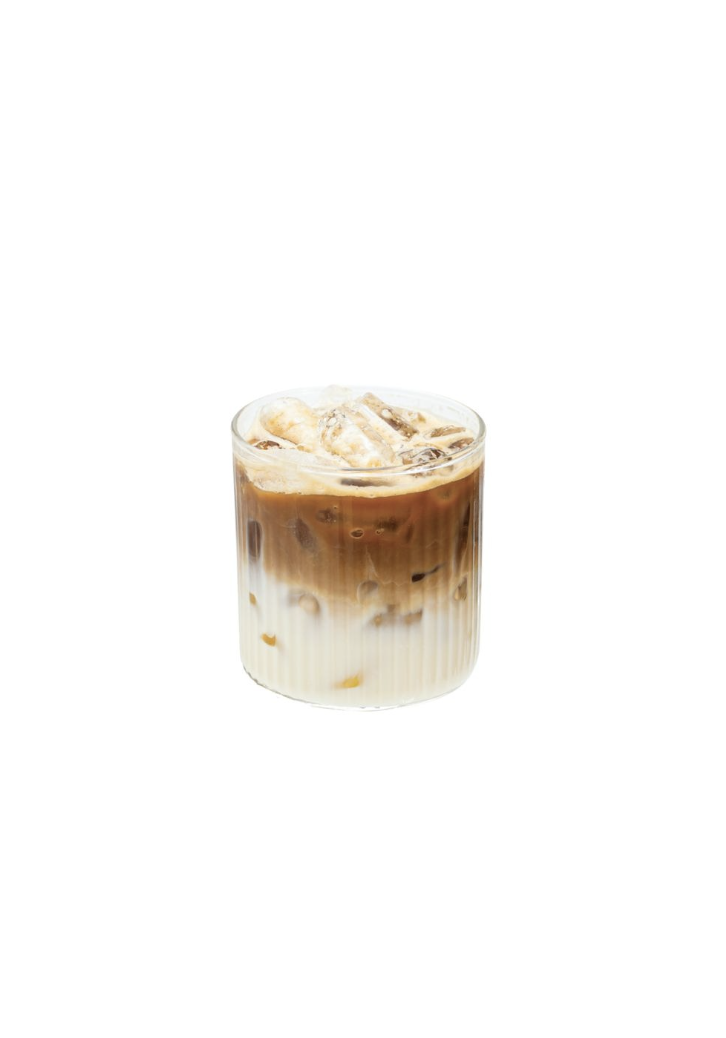
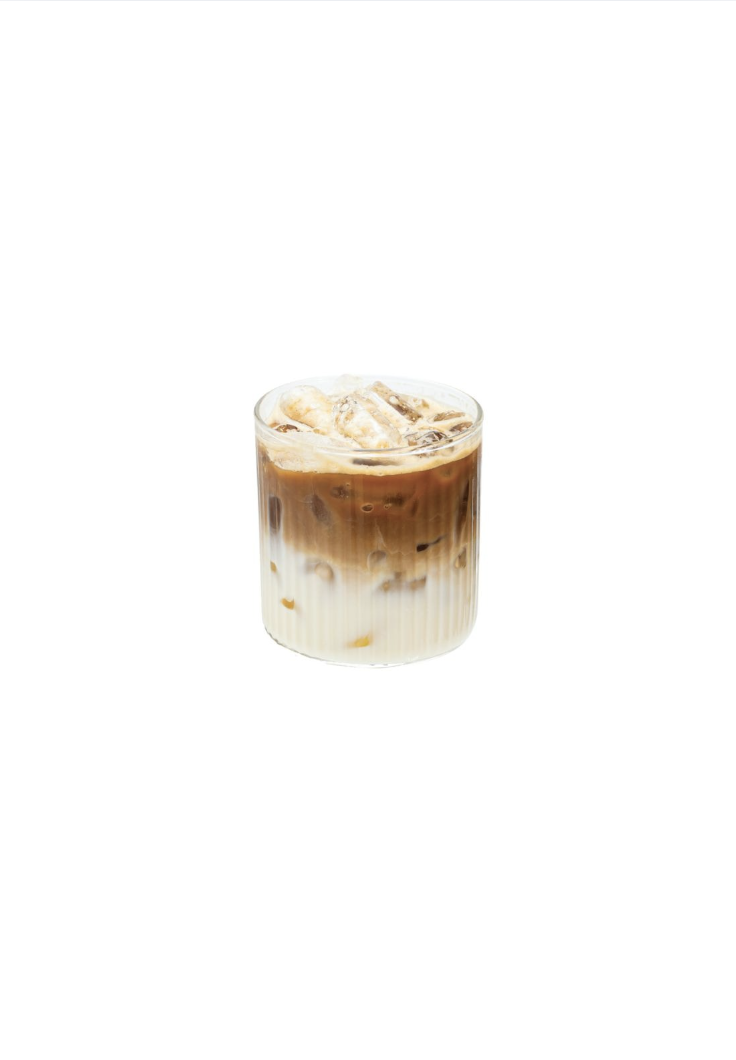
testing

Changed region(s): [[0.303, 0.3391, 0.6667, 0.6782]]

diff --git a/frontend/css/responsive.css b/frontend/css/responsive.css
@@ -117,6 +117,11 @@
         font-size: 0.7rem;
         margin-right: 0.2rem;
     }
+
+    .contact-us .phone-nr{
+        color:#f0e6d6 !important;
+        text-decoration: none !important;
+    }
     
     .footer-section p {
         justify-content: center;
@@ -1234,9 +1239,9 @@
 /*---------------------------------------------------------------------------------*/
 
 /*EXTRA BIG SCREEN*/
-@media (min-width: 1600px){  
+@media (min-width: 1700px){  
     .container {
-        max-width: 1550px;  
+        max-width: 1650px;  
     }
     
     body {
